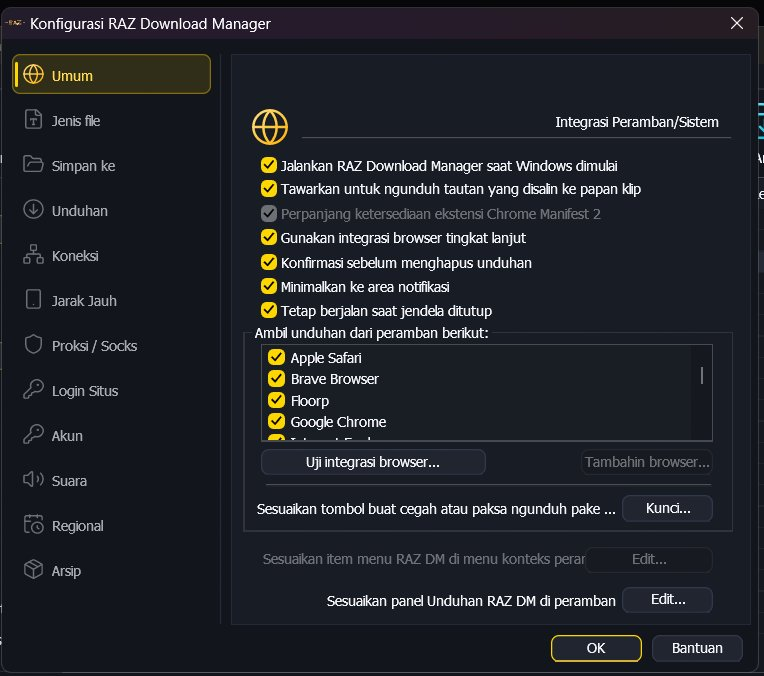
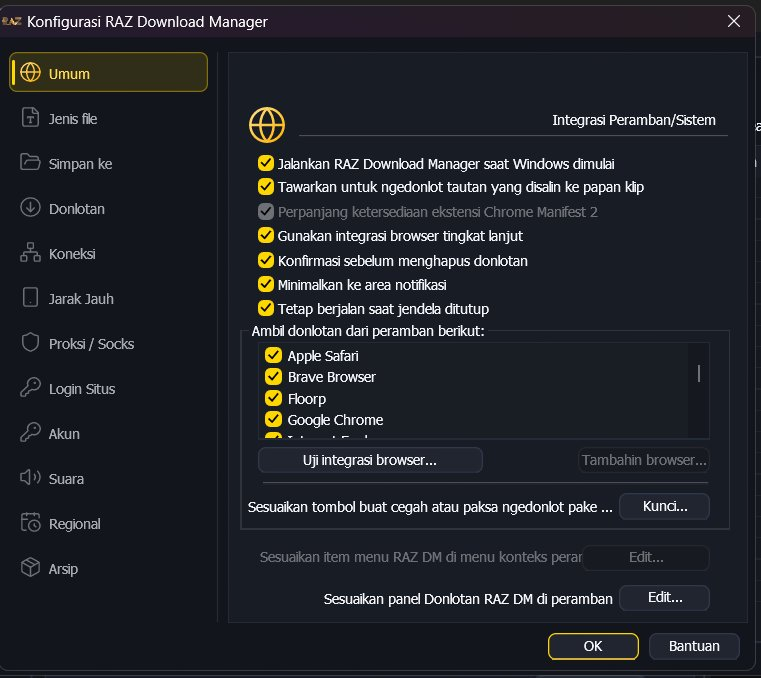
feat(screens): update options dialog dark and light screenshots in README and website

diff --git a/website/js/RAZMainLang.js b/website/js/RAZMainLang.js
@@ -80,8 +80,10 @@ const RAZMainLang = {
             'tour-tab-progress-desc': 'Pantau kecepatan dan bagian file yang terisi secara real-time. Resume aman dari crash tanpa takut file rusak.',
             'tour-tab-completed-title': 'Dialog Donlotan Selesai',
             'tour-tab-completed-desc': 'Notifikasi instan dengan opsi langsung buka file, buka folder tujuan, atau buka dengan aplikasi pilihan.',
-            'tour-tab-options-title': 'Konfigurasi & Opsi Lengkap',
+            'tour-tab-options-title': 'Konfigurasi (Mode Gelap)',
             'tour-tab-options-desc': 'Integrasi peramban otomatis, manajemen koneksi, proxy, hingga opsi perilaku sistem semau lo.',
+            'tour-tab-options-light-title': 'Konfigurasi (Mode Terang)',
+            'tour-tab-options-light-desc': 'Tampilan panel pengaturan tema terang dengan tombol aksen dan navigasi tab yang bersih.',
             'tour-tab-torrents-title': 'BitTorrent (Mode Gelap)',
             'tour-tab-torrents-desc': 'Buka magnet link dan file .torrent langsung di daftar download tanpa software terpisah (Obsidian Gold).',
             'tour-tab-torrents-light-title': 'BitTorrent (Mode Terang)',
@@ -270,8 +272,10 @@ const RAZMainLang = {
             'tour-tab-progress-desc': 'Watch each connection fill in real time with live speed indicators. Crash-safe resume prevents file corruption.',
             'tour-tab-completed-title': 'Download Completed Dialog',
             'tour-tab-completed-desc': 'Instant completion dialog with direct actions to open the file, open destination folder, or choose app.',
-            'tour-tab-options-title': 'Preferences & Settings',
-            'tour-tab-options-desc': 'Automatic browser integration, network connection tuning, proxies, and system behaviors semau lo.',
+            'tour-tab-options-title': 'Settings (Dark Mode)',
+            'tour-tab-options-desc': 'Automatic browser integration, network connection tuning, proxies, and custom behaviors.',
+            'tour-tab-options-light-title': 'Settings (Light Mode)',
+            'tour-tab-options-light-desc': 'Light mode settings panel with clean tab navigation and warm amber accents.',
             'tour-tab-torrents-title': 'Built-in BitTorrent (Dark)',
             'tour-tab-torrents-desc': 'Open magnet links and .torrent files directly without separate client (Obsidian Gold theme).',
             'tour-tab-torrents-light-title': 'Built-in BitTorrent (Light)',

diff --git a/website/index.html b/website/index.html
@@ -329,8 +329,12 @@
                         <p data-lang-key="tour-tab-completed-desc">Notifikasi instan dengan opsi langsung buka file, buka folder tujuan, atau buka dengan aplikasi pilihan.</p>
                     </div>
                     <div class="tour-tab-item" data-img="assets/screens/options-dark.webp">
-                        <h4 data-lang-key="tour-tab-options-title">Konfigurasi & Opsi Lengkap</h4>
+                        <h4 data-lang-key="tour-tab-options-title">Konfigurasi (Mode Gelap)</h4>
                         <p data-lang-key="tour-tab-options-desc">Integrasi peramban otomatis, manajemen koneksi, proxy, hingga opsi perilaku sistem semau lo.</p>
+                    </div>
+                    <div class="tour-tab-item" data-img="assets/screens/options-light.webp">
+                        <h4 data-lang-key="tour-tab-options-light-title">Konfigurasi (Mode Terang)</h4>
+                        <p data-lang-key="tour-tab-options-light-desc">Tampilan panel pengaturan tema terang dengan tombol aksen dan navigasi tab yang bersih.</p>
                     </div>
                     <div class="tour-tab-item" data-img="assets/screens/add-torrent-dark.webp">
                         <h4 data-lang-key="tour-tab-torrents-title">BitTorrent (Mode Gelap)</h4>

diff --git a/RAZUpdateHistory.md b/RAZUpdateHistory.md
@@ -3,6 +3,22 @@ Dokumentasi riwayat pembaruan dan perubahan harian proyek RAZ Download Manager.
 
 ---
 
+## [2026-11-16] — Pembaruan Tangkapan Layar Dialog Konfigurasi / Opsi (Dark & Light Mode) di Website dan README.md
+*Waktu: 16 November 2026 16:18 WIB*
+
+### Aktivitas & Pembaruan:
+1. **Pembaruan Tangkapan Layar Dialog Konfigurasi di `README.md`**:
+   - Memperbarui gambar pengaturan antarmuka ke versi paling mutakhir dengan navigasi samping modern:
+     - `docs/images/settings.png` &rarr; Dialog Konfigurasi Mode Gelap (Obsidian Gold).
+     - `docs/images/settings-light.png` &rarr; Dialog Konfigurasi Mode Terang (Light Mode) dengan tab amber presisi.
+   - Mengatur baris tabel antarmuka `README.md` berpasangan simetris untuk Dark & Light mode.
+
+2. **Pembaruan Aset Dialog Opsi Website (`website/assets/screens/`)**:
+   - Memperbarui `options-dark.webp` dan `options-light.webp` dengan tangkapan layar beresolusi tajam.
+   - Menambahkan tab preview tur interaktif di `website/index.html` untuk **Konfigurasi (Mode Gelap)** dan **Konfigurasi (Mode Terang)** serta string bilingual di `RAZMainLang.js`.
+
+---
+
 ## [2026-11-16] — Pembaruan Tangkapan Layar Tampilan Utama (Layar Utama Dark & Light Mode Terbaru) di Website dan README.md
 *Waktu: 16 November 2026 16:10 WIB*
 

diff --git a/README.md b/README.md
@@ -132,10 +132,10 @@ Berikut tampilan antarmuka resmi RAZ Download Manager v1.0.0 dengan sentuhan tem
 | <img src="docs/images/downloading.png" alt="Dialog Proses Donlot Multi-Thread" width="460"> | <img src="docs/images/completed.png" alt="Dialog Donlotan Selesai" width="460"> |
 | *Pemantauan segmen byte live, kecepatan, dan sisa waktu* | *Aksi cepat buka file, buka folder, dan setel aplikasi* |
 
-| ⚙ Konfigurasi & Pengaturan Lengkap | |
+| ⚙ Konfigurasi (Mode Gelap) | ⚙ Konfigurasi (Mode Terang) |
 | :---: | :---: |
-| <img src="docs/images/settings.png" alt="Konfigurasi RAZ Download Manager" width="460"> | |
-| *Pengaturan integrasi peramban, koneksi, dan proksi* | |
+| <img src="docs/images/settings.png" alt="Konfigurasi RAZ Download Manager Mode Gelap" width="460"> | <img src="docs/images/settings-light.png" alt="Konfigurasi RAZ Download Manager Mode Terang" width="460"> |
+| *Pengaturan integrasi peramban, koneksi, dan proksi (Dark)* | *Pengaturan tema terang dengan navigasi tab amber presisi (Light)* |
 
 ---
 
